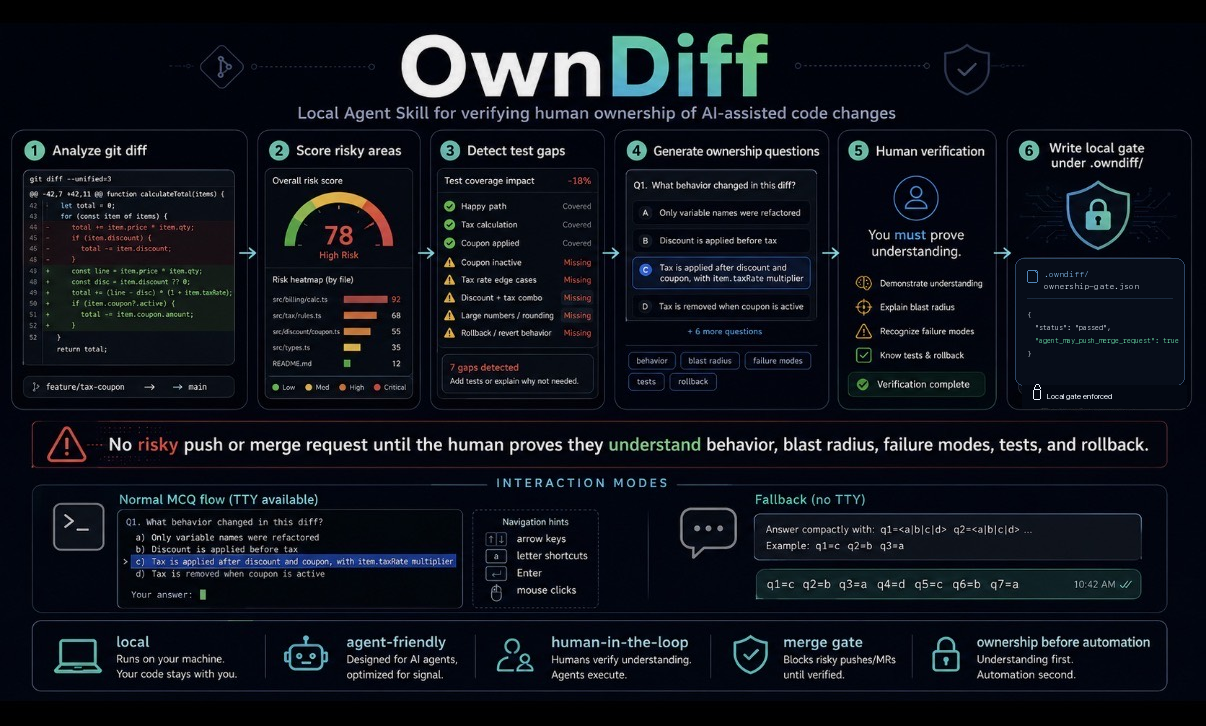
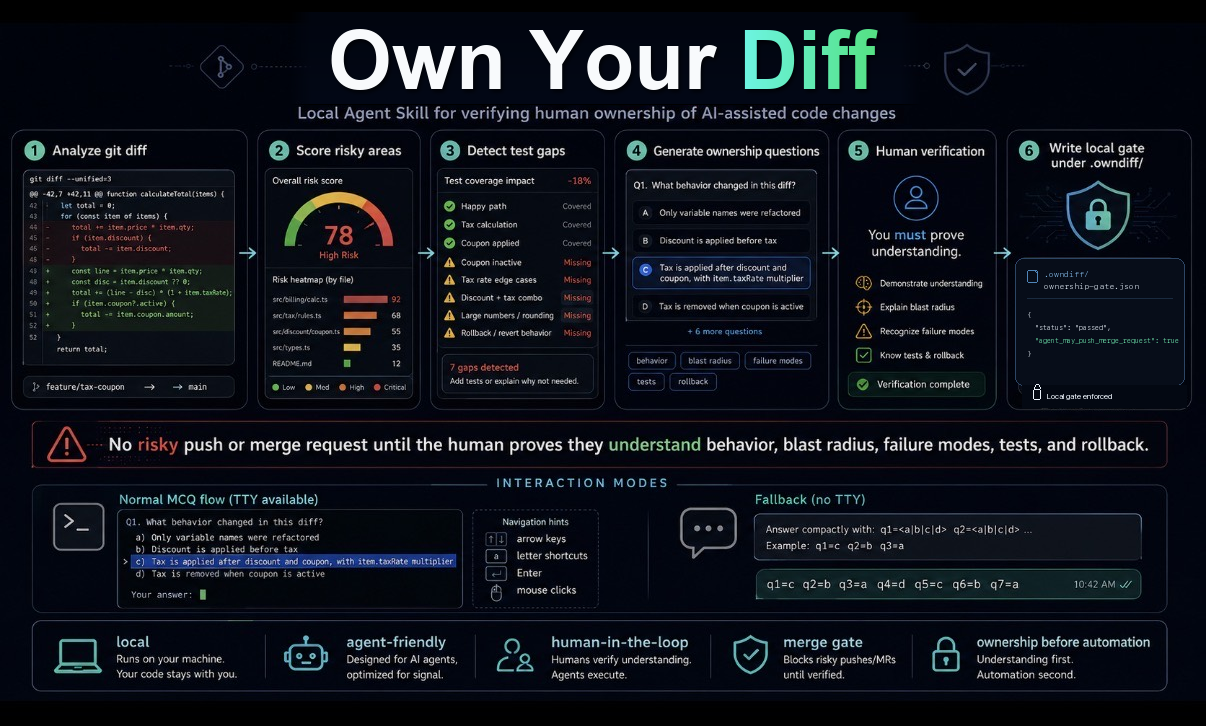
Update README hero title

Changed region(s): [[0.2761, 0.0303, 0.7363, 0.1515]]

diff --git a/README.md b/README.md
@@ -4,7 +4,7 @@
 [![Python 3.11+](https://img.shields.io/badge/python-3.11%2B-3776AB)](https://www.python.org/)
 [![License: MIT](https://img.shields.io/badge/license-MIT-green.svg)](LICENSE)
 
-![OwnDiff overview](docs/assets/owndiff-readme-hero.png)
+![Own Your Diff overview](docs/assets/owndiff-readme-hero.png)
 
 OwnDiff is a local Agent Skill that makes a human prove they understand risky AI-assisted code changes before an agent pushes or opens a merge request.
 
